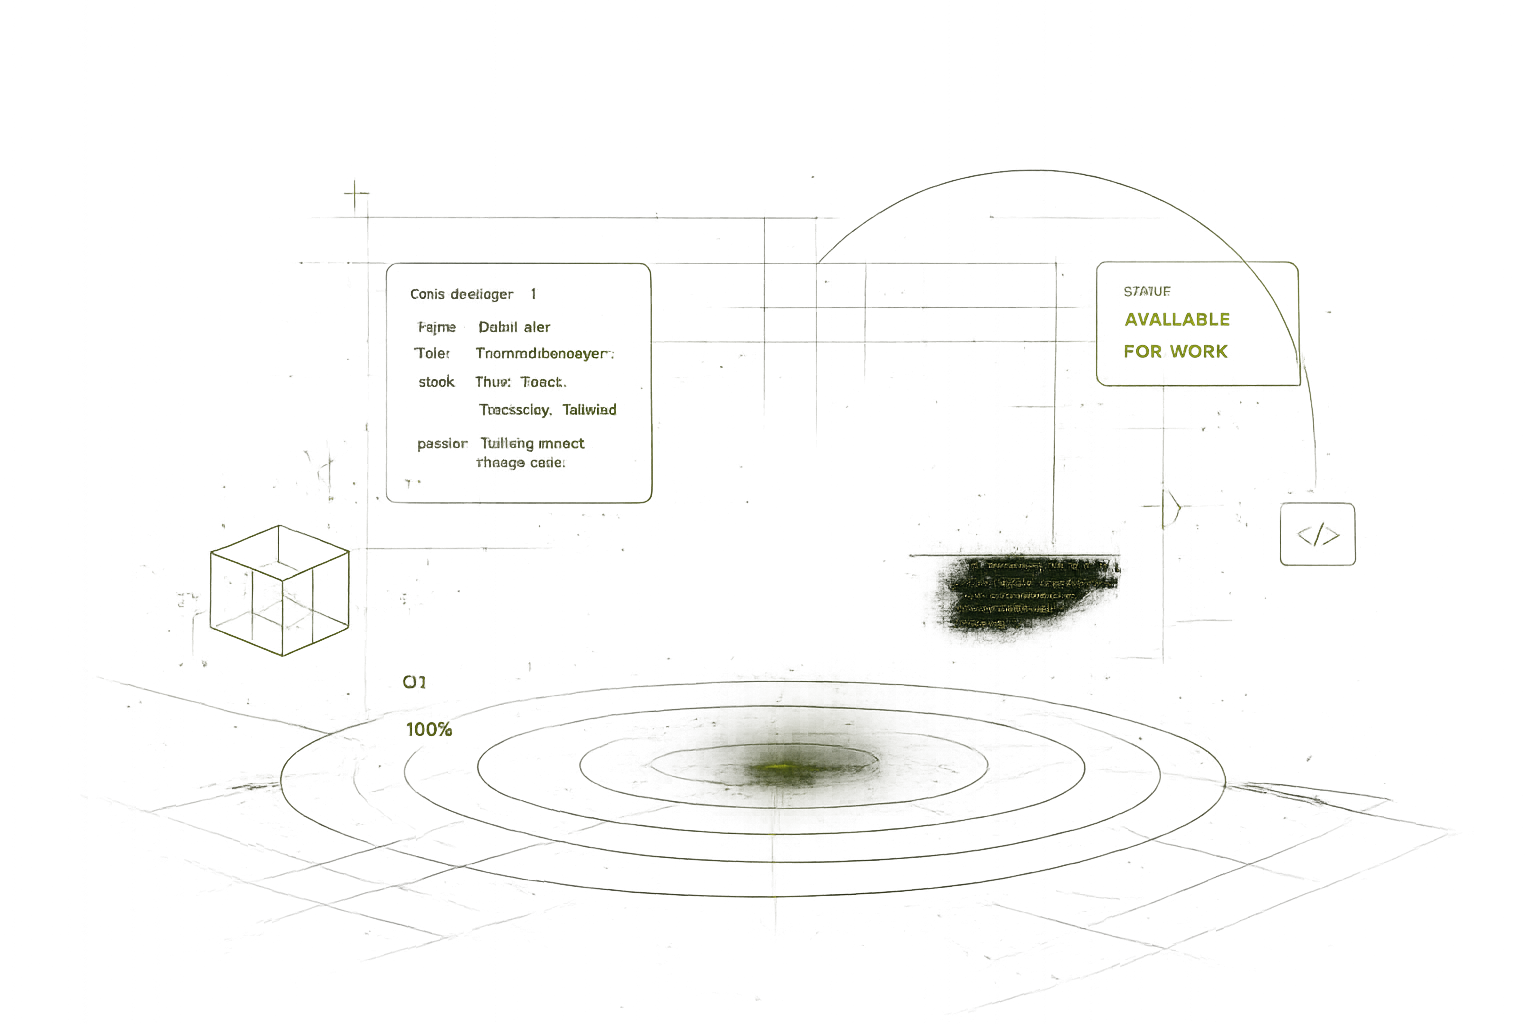
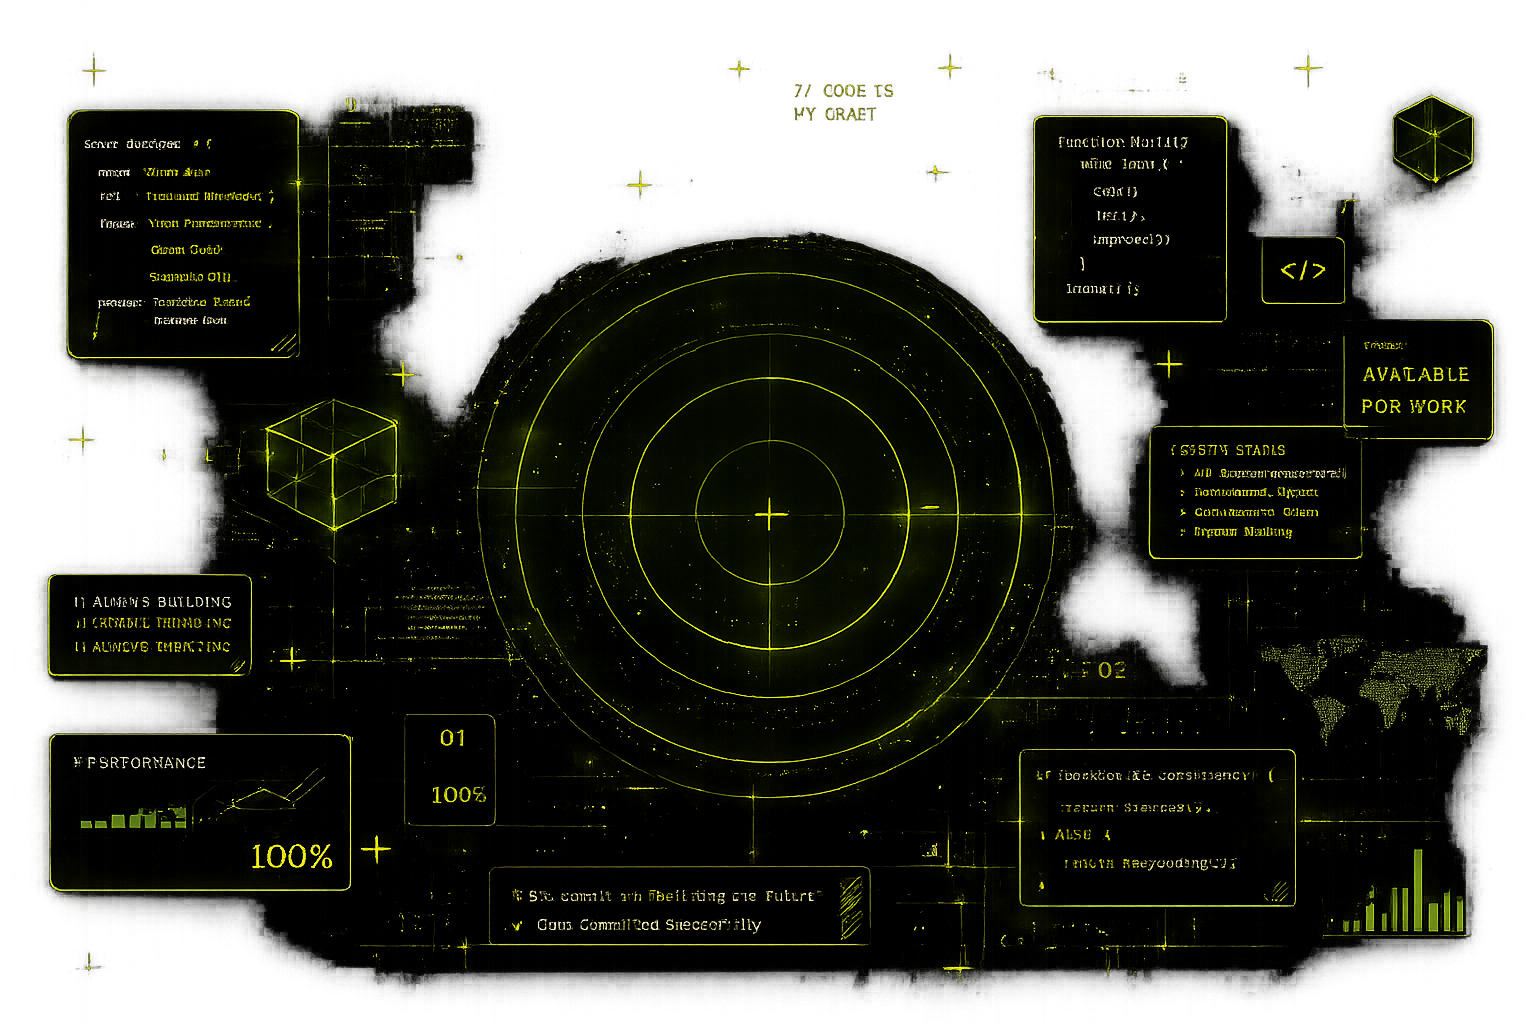
fix: blur hero image section

diff --git a/src/features/landing/components/landingHero.tsx b/src/features/landing/components/landingHero.tsx
@@ -80,14 +80,26 @@ export default function LandingHero() {
           </div>
         </div>
 
-        <div className="relative order-1 mx-auto aspect-square w-full max-w-xl md:order-2">
-          {/* Backdrop art, fitted exactly to the frame */}
+        <div className="relative order-1 mx-auto aspect-square w-full max-w-3xl md:order-2">
+          {/* Backdrop art, fitted exactly to the frame. Sharp center that fades into a
+              blurred copy of itself toward the edges, so cropped edges feel smooth. */}
           <div className="absolute inset-0 overflow-hidden rounded-[2.5rem]">
-            <Image src={heroArt} alt="" fill className="object-cover" />
+            <Image
+              src={heroArt}
+              alt=""
+              fill
+              className="scale-105 object-cover blur-md"
+            />
+            <Image
+              src={heroArt}
+              alt=""
+              fill
+              className="object-cover [mask-image:radial-gradient(ellipse_closest-side_at_center,black_40%,transparent_100%)] [-webkit-mask-image:radial-gradient(ellipse_closest-side_at_center,black_40%,transparent_100%)]"
+            />
           </div>
 
           {/* Subject cutout, floating above the backdrop art */}
-          <div className="absolute -inset-y-10 inset-x-0">
+          <div className="absolute inset-0">
             <Image
               src={heroPhoto}
               alt="Dzikri Alan"